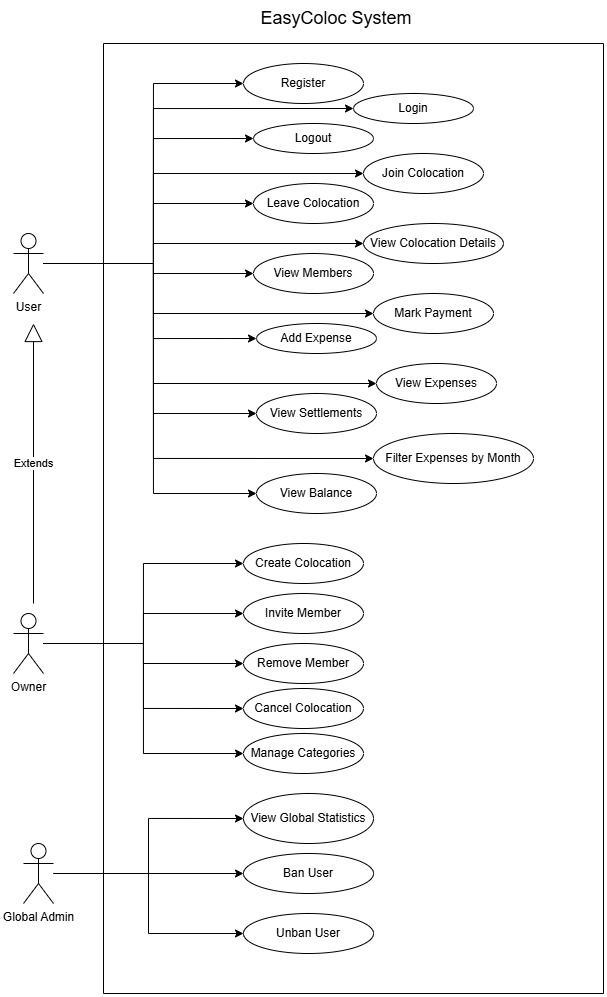
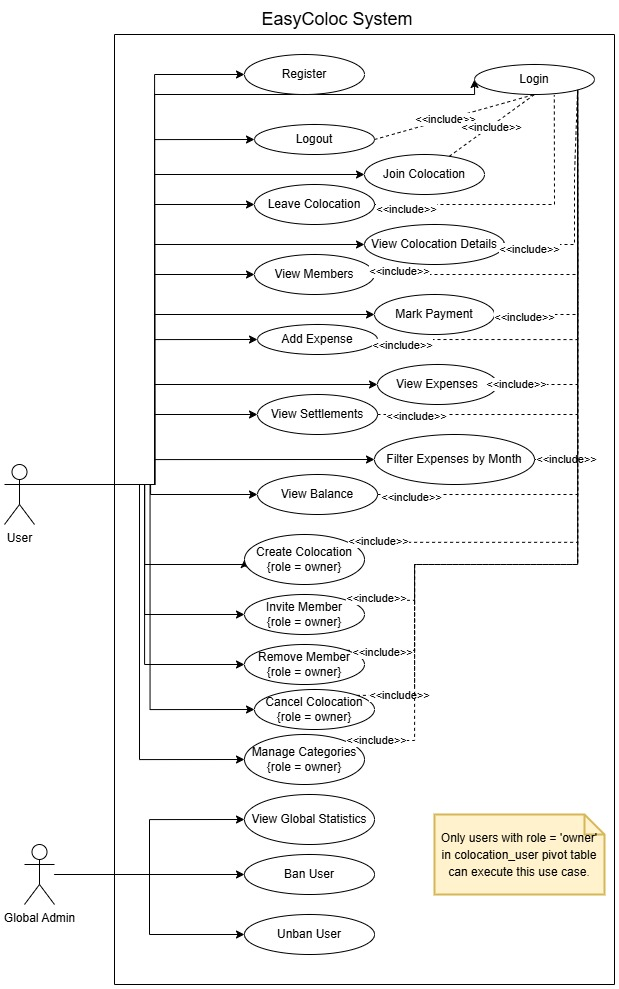
fix: update diagramme useCase

diff --git a/database/migrations/2026_02_23_144648_add_roles_to_users_table.php b/database/migrations/2026_02_23_144648_add_roles_to_users_table.php
@@ -1,0 +1,29 @@
+<?php
+
+use Illuminate\Database\Migrations\Migration;
+use Illuminate\Database\Schema\Blueprint;
+use Illuminate\Support\Facades\Schema;
+
+return new class extends Migration
+{
+    /**
+     * Run the migrations.
+     */
+    public function up(): void
+    {
+        Schema::table('users', function (Blueprint $table) {
+            //
+        });
+
+    }
+
+    /**
+     * Reverse the migrations.
+     */
+    public function down(): void
+    {
+        Schema::table('users', function (Blueprint $table) {
+            //
+        });
+    }
+};
